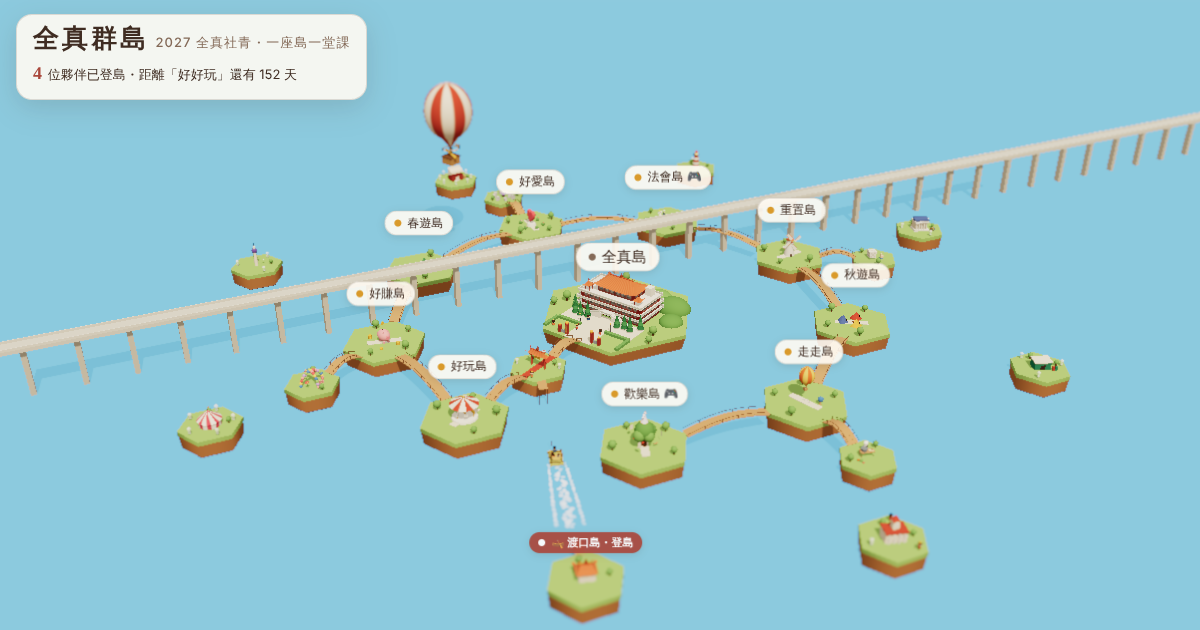
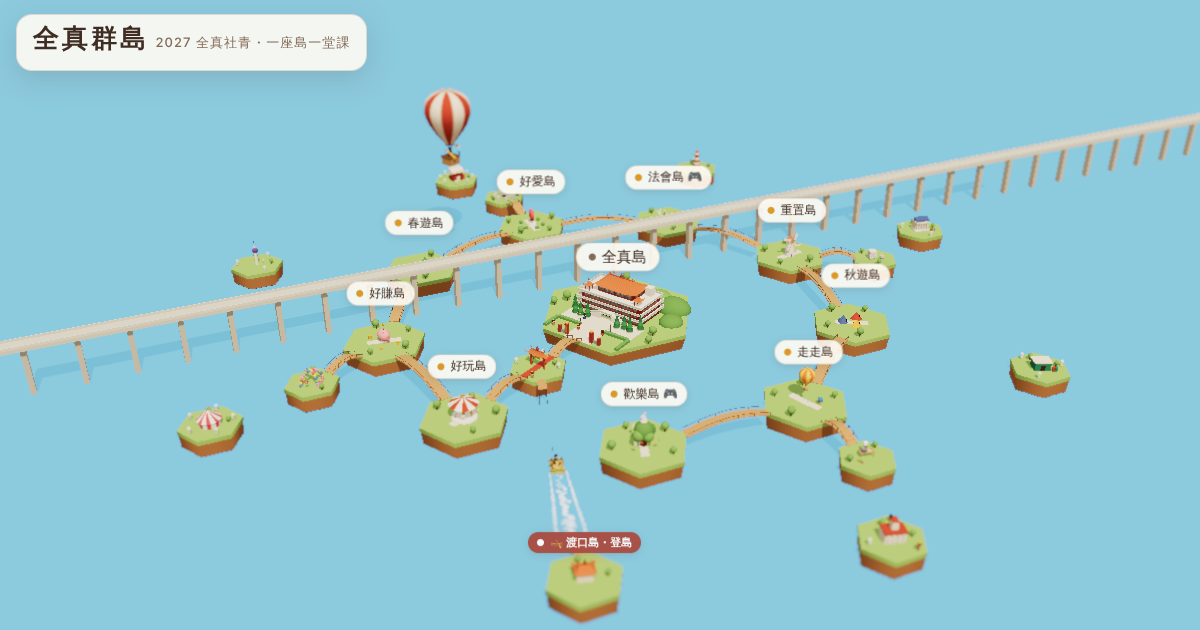
群島：更新 LINE 分享預覽圖與分享說明
Claude-Session: https://claude.ai/code/session_01GmcmD8V22uoDLYZhsy1cUR

diff --git a/islands/index.html b/islands/index.html
@@ -6,15 +6,18 @@
 <meta name="color-scheme" content="light dark">
 <meta name="robots" content="noindex, nofollow">
 <title>全真群島｜2027 全真社青</title>
-<meta name="description" content="一座島一堂課：2027 全真社青的 3D 微縮群島，看報名夥伴、課程進度與各組準備一起慢慢點亮。">
+<meta name="description" content="一座島一堂課：2027 全真社青的 3D 微縮群島。搭竹筏登島報名，輸入全名就能在島上找到自己的小人偶，一起攜手把群島點亮。">
 <meta property="og:type" content="website">
 <meta property="og:site_name" content="2027 全真社青 Life Design 探索地圖">
 <meta property="og:title" content="全真群島｜一座島一堂課">
-<meta property="og:description" content="中央是全真道院，九座課程島串起 2027 一整年。報名的夥伴越多，島上越熱鬧，一起攜手把它點亮。">
+<meta property="og:description" content="中央是全真道院，九座課程島串起 2027 一整年。搭竹筏登島報名，輸入全名就能找到自己的小人偶；報名的夥伴越多，島上越熱鬧，一起攜手把它點亮。">
 <meta property="og:url" content="https://steven4dev.github.io/yiguandao-2027-course/islands/">
-<meta property="og:image" content="https://steven4dev.github.io/yiguandao-2027-course/islands/og-islands.png">
+<meta property="og:image" content="https://steven4dev.github.io/yiguandao-2027-course/islands/og-islands.png?v=26102610">
+<meta property="og:image:secure_url" content="https://steven4dev.github.io/yiguandao-2027-course/islands/og-islands.png?v=26102610">
+<meta property="og:image:type" content="image/png">
 <meta property="og:image:width" content="1200">
 <meta property="og:image:height" content="630">
+<meta property="og:image:alt" content="全真群島：中央是全真道院，九座課程島用木橋串起 2027 一整年，旁邊有渡口島和瞭望熱氣球">
 <meta property="og:locale" content="zh_TW">
 <meta name="twitter:card" content="summary_large_image">
 <!-- 加到主畫面：iPhone 用 apple-touch-icon，Android 用 manifest -->
@@ -328,7 +331,7 @@
   <p class="count" id="brandCount"></p>
   <a class="board" href="https://forms.gle/PG7yAsyz1r4unXXZ8" target="_blank" rel="noopener">🛶 我要登島</a>
   <span class="status" id="status" data-state="backup" role="button" tabindex="0" title="點一下重新讀取"><i></i><span id="statusText">讀取資料中…</span></span>
-  <span class="ver">v261026.09</span>
+  <span class="ver">v261026.10</span>
   </div></div>
 </div>
 

diff --git a/index.html b/index.html
@@ -1430,7 +1430,7 @@
         <a href="#flow">🔋 每日流程</a>
         <a href="#schedule">📅 年度企劃</a>
         <a href="#org">🤝 同行夥伴</a>
-        <a class="nav-islands" href="islands/?v=26102609">🏝 全真群島</a>
+        <a class="nav-islands" href="islands/?v=26102610">🏝 全真群島</a>
       </div>
       <button type="button" class="theme-btn" id="themeBtn" aria-label="切換暗色主題" aria-pressed="false" title="切換暗色／淺色主題"><svg class="moon" viewBox="0 0 24 24" fill="none" stroke="currentColor" stroke-width="2" stroke-linecap="round" stroke-linejoin="round" aria-hidden="true"><path d="M21 12.8A9 9 0 1 1 11.2 3a7 7 0 0 0 9.8 9.8z"/></svg><svg class="sun" viewBox="0 0 24 24" fill="none" stroke="currentColor" stroke-width="2" stroke-linecap="round" aria-hidden="true"><circle cx="12" cy="12" r="4.5"/><path d="M12 2v2.5M12 19.5V22M2 12h2.5M19.5 12H22M4.9 4.9l1.8 1.8M17.3 17.3l1.8 1.8M4.9 19.1l1.8-1.8M17.3 6.7l1.8-1.8"/></svg></button>
       <button class="nav-toggle" id="navToggle" aria-label="開啟選單" aria-expanded="false" aria-controls="navLinks" onclick="toggleNav()">
@@ -1459,8 +1459,8 @@
       </div>
 
       <!-- 全真群島放在最上面，讓訪客一進來先看到：九座課程島串起一整年，跟著報名人數慢慢熱鬧起來 -->
-      <a class="xy-banner" href="islands/?v=26102609">
-        <img src="islands/og-islands.png" alt="全真群島：中央是全真道院，九座課程島用木橋串起 2027 一整年">
+      <a class="xy-banner" href="islands/?v=26102610">
+        <img src="islands/og-islands.png?v=26102610" alt="全真群島：中央是全真道院，九座課程島用木橋串起 2027 一整年">
         <div>
           <span class="tag">🏝 3D 互動地圖</span>
           <h3>一座島一堂課：全真群島</h3>

diff --git a/islands/CHANGELOG.md b/islands/CHANGELOG.md
@@ -3,6 +3,10 @@
 網頁左上角品牌卡最下面的淡色小字就是版本編號，格式跟褪下仙衣一樣是 `v年月日.當天第幾版`，例如 `v261025.01` 代表 2026/10/25 的第 1 版。
 打開網頁看到的編號和這裡最上面的一筆相同，就代表已經更新成功；如果還是舊編號，等幾分鐘再重新整理。
 
+## v261026.10
+- 更新分享到 LINE／Facebook 的預覽圖：白天的群島全景，有新的熱氣球、竹筏水花和渡口島；拿掉會過時的報名人數。
+- 分享說明文字補上「搭竹筏登島報名、輸入全名找到自己的小人偶」；預覽圖網址加上版本號，讓 LINE 抓到新圖。
+
 ## v261026.09
 - 拿掉海浪聲。
 - 輕音樂換成漫步調的小曲：溫暖的電鋼琴七和弦、像散步腳步一樣每拍一步的貝斯、輕輕吹出來的旋律，反拍帶一點搖擺和很輕的刷子聲；白天每分鐘 76 拍，晚上放慢到 62 拍、拿掉刷子、整體更輕。
